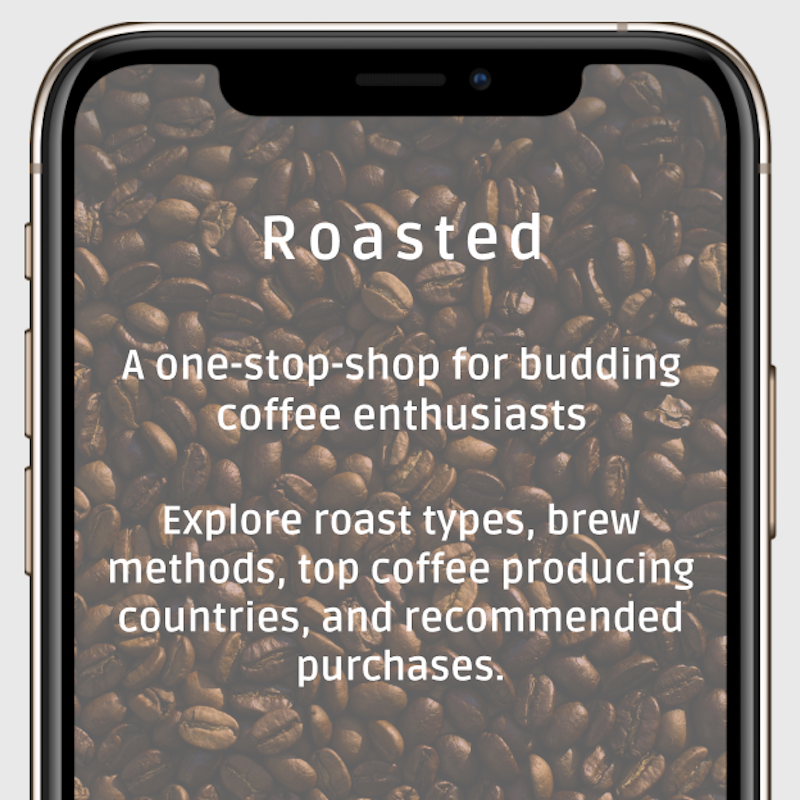
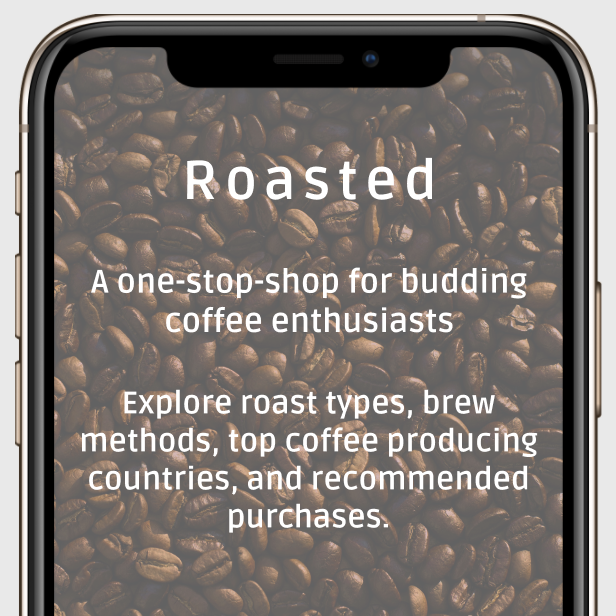
fix flotf pic and add aboutme pic

diff --git a/index.html b/index.html
@@ -70,7 +70,7 @@
 						<div class="relative">
 							<div class="thumb">
 								<div class="overlay overlay-bg"></div>
-								<img class="image img-fluid" src="images/p1.jpg" alt="">
+								<img class="image img-fluid" src="images/streamliningaircraft.PNG" alt="">
 							</div>
 							<a href="images/streamliningaircraft.PNG" class="img-pop-up">
 								<div class="middle">
@@ -129,11 +129,11 @@
 	<section class="site-section" id="section-about">
 		<div class="container">
 			<div class="row mb-5 align-items-center">
-				<!-- about me image>
+
 				<div class="col-lg-7 pr-lg-5 mb-5 mb-lg-0">
-					<img src="images/image_1.jpg" alt="Image placeholder" class="img-fluid">
+					<img src="images/aboutme.jpg" alt="Image placeholder" class="img-fluid">
 				</div>
-					</!-->
+
 				<div class="col-lg-5 pl-lg-5">
 					<div class="section-heading">
 						<h2>About <strong>Me</strong></h2>
